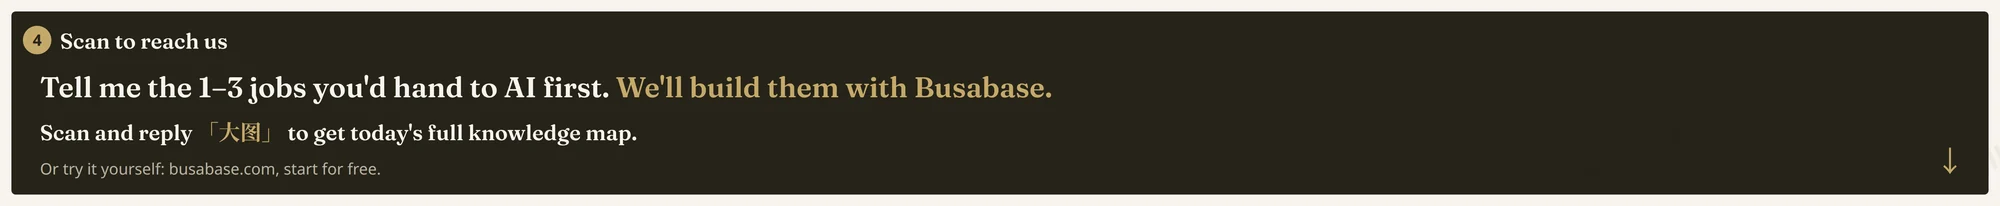
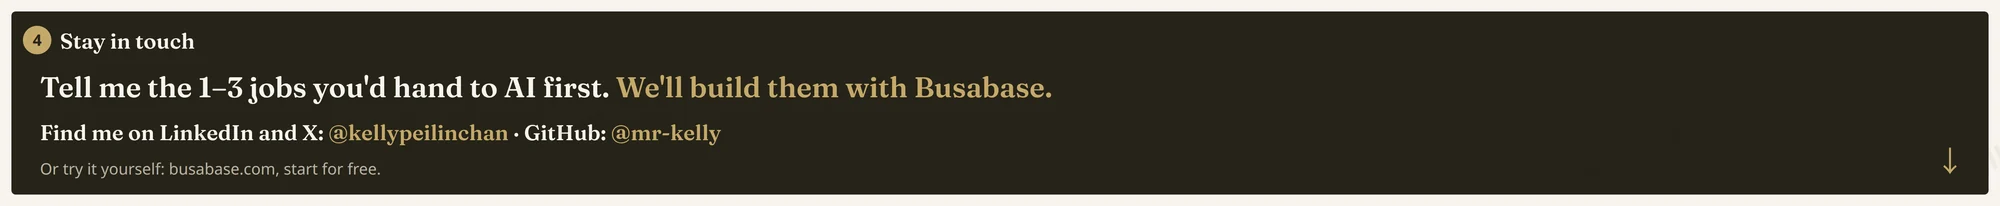
fix(article): English keynote maps show social handles instead of the WeCom QR
The English edition of why-your-agents-wont-work now uses map exports whose
bottom-right corner lists @kellypeilinchan (LinkedIn, X) and @mr-kelly
(GitHub) rather than the Chinese sales team's WeCom QR. The closing block
reads "Stay in touch" with the same handles, the standalone QR image is
removed, and the text links to LinkedIn, X and GitHub. The Chinese edition
keeps its QR.

Changed region(s): [[0.0, 0.5825, 0.372, 0.699], [0.031, 0.1748, 0.124, 0.2621]]

diff --git a/articles/en/why-your-agents-wont-work.md b/articles/en/why-your-agents-wont-work.md
@@ -24,7 +24,7 @@ I don't think you need me to argue whether to do AI anymore. **The question is n
 
 In this essay, I'm going to use just one picture.
 
-If you want the high-resolution version, scan the code at the end. By the end you'll see that everything I say here is on this map.
+If you'd like the high-resolution version, message me on LinkedIn or X (@kellypeilinchan). By the end you'll see that everything I say here is on this map.
 
 Here's how to read it. Top left: the five approaches I've gone through in two years. Below that: three questions people often ask. The big table in the middle is today's main act, seven findings. To the right of the table and below it: what to do about each finding. The bottom row: results, and three things you can do when you get back.
 
@@ -394,13 +394,11 @@ People judge: an agent's change first becomes a change request, and it only coun
 
 Report-first: daily and weekly reports go into tables and docs, with one place to read and one place to approve.
 
-## Scan to connect with us
+## Stay in touch
 
-![Map 2, block 4: scan to reach us](/articles/images/why-your-agents-wont-work/en/map-2-b4.webp)
+![Map 2, block 4: stay in touch](/articles/images/why-your-agents-wont-work/en/map-2-b4.webp)
 
-![Scan to add us on WeCom](/articles/images/why-your-agents-wont-work/en/qr.webp)
-
-Scan to add us on WeCom. Reply “大图” (Chinese for “big map”) and we'll send you the high-resolution version of the full map.
+You can find me on [LinkedIn](https://www.linkedin.com/in/kellypeilinchan/) and [X](https://x.com/kellypeilinchan) as @kellypeilinchan, and on [GitHub](https://github.com/mr-kelly) as @mr-kelly. Message me there for the high-resolution map.
 
 And tell us the one to three jobs you'd most like to hand to AI; we'll build them for you with Busabase.
 
